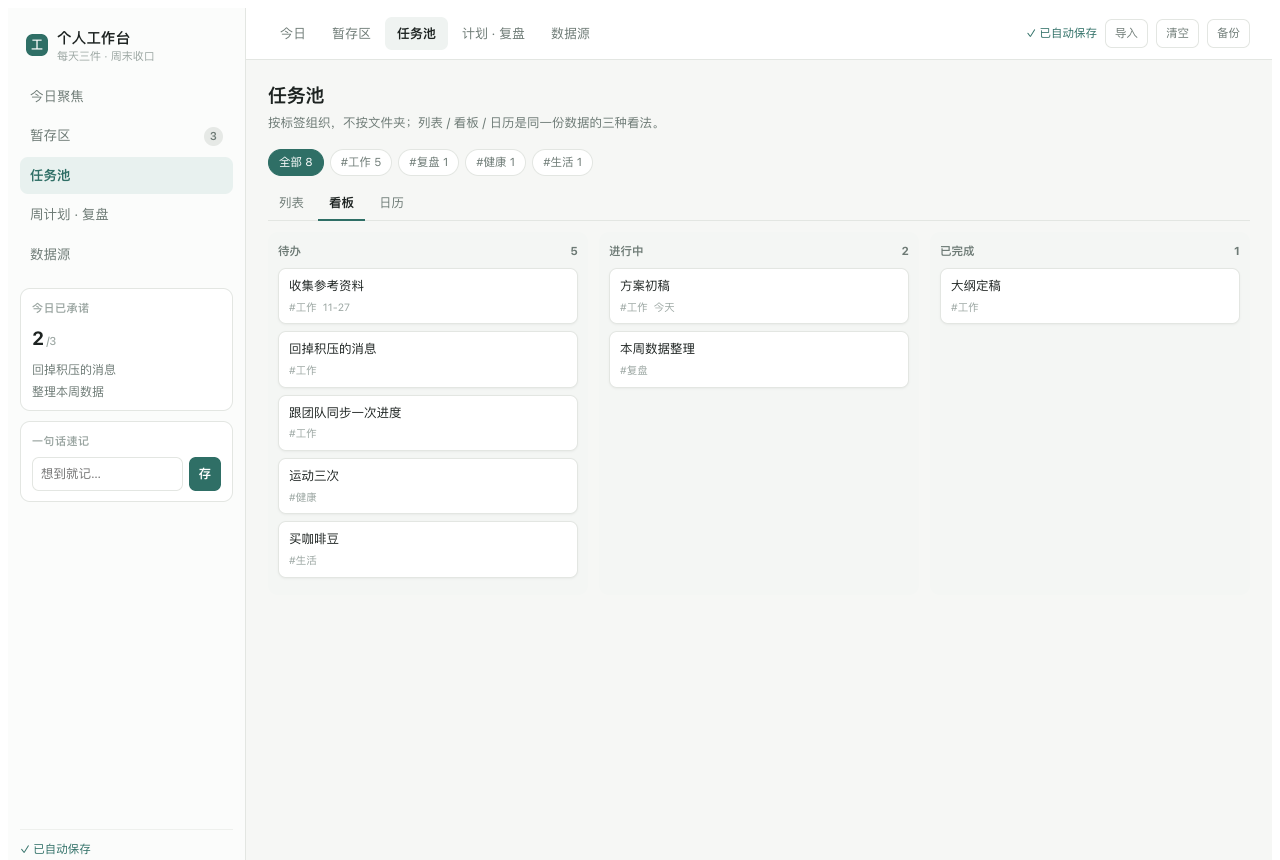
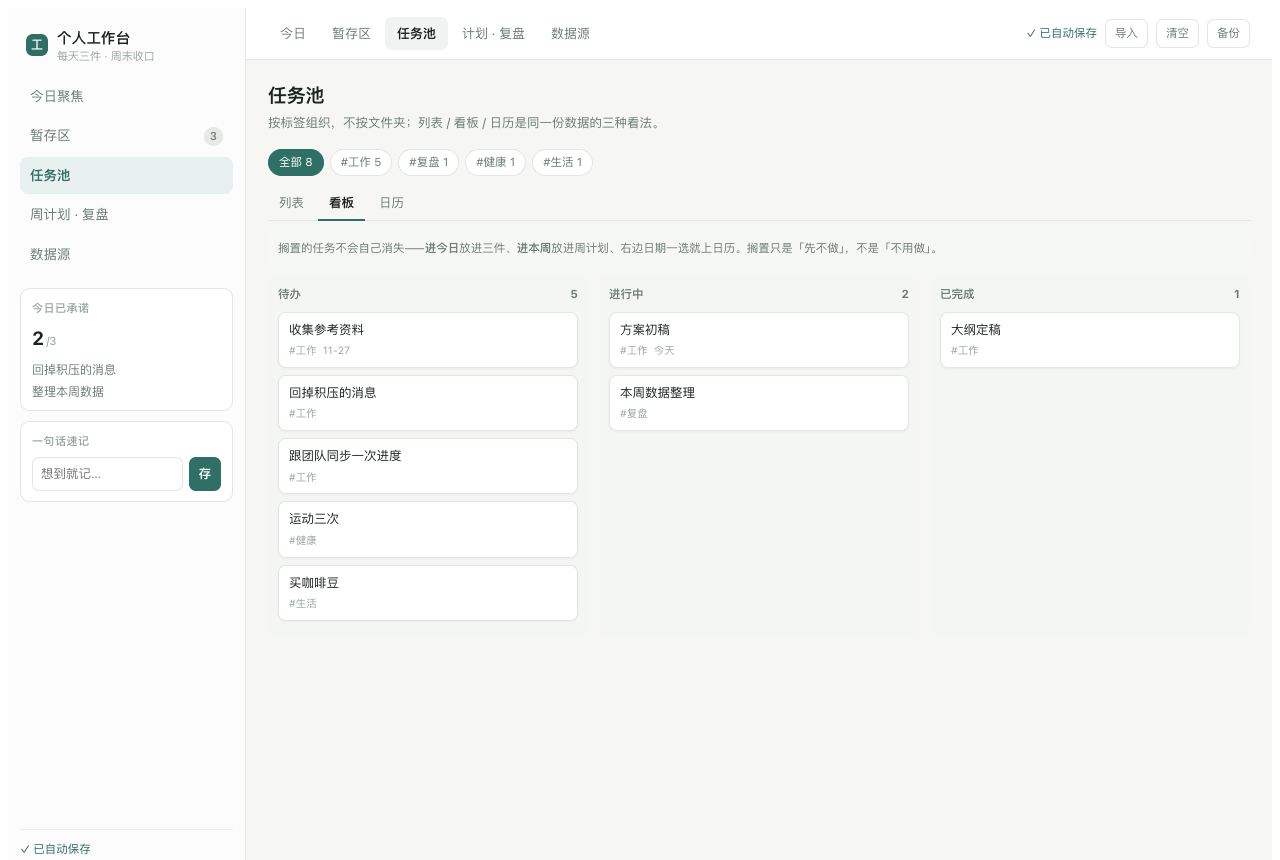
docs: 补任务池与日历截图，README 说明任务流转

Changed region(s): [[0.2188, 0.2721, 0.75, 0.6953], [0.7188, 0.3023, 0.7812, 0.393]]

diff --git a/README.md b/README.md
@@ -37,6 +37,14 @@ DeepSeek Harness 插件。每天只锁三件事，想到的东西先丢暂存区
 | 周计划 · 复盘 | 周初定三件，周末对照收口 |
 | 数据源 | MNEMON 与本机会话的只读快照 |
 
+任务池列表——每条任务带日期框和两个出口：
+
+![任务池](https://github.com/PLAhui/dsh-workbench/raw/master/docs/shot-tasks.png)
+
+日历可翻周，排到下个月也看得到：
+
+![日历](https://github.com/PLAhui/dsh-workbench/raw/master/docs/shot-cal.png)
+
 ## 一条任务怎么流动
 
 ```
